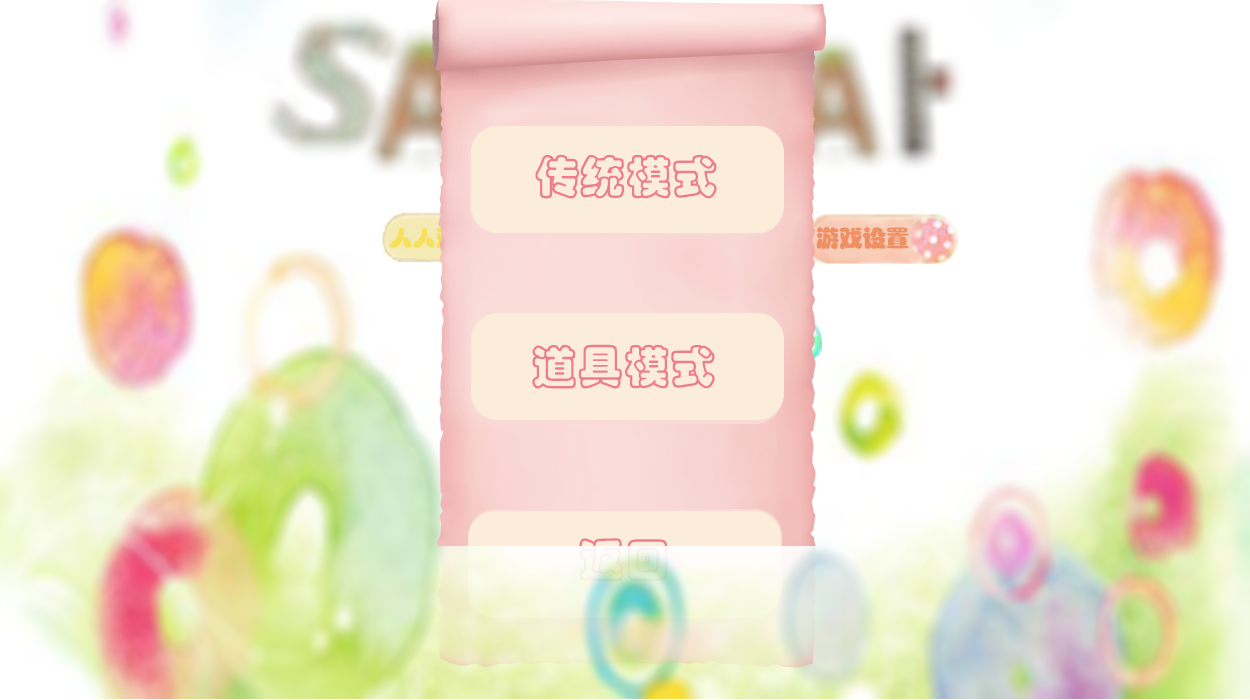
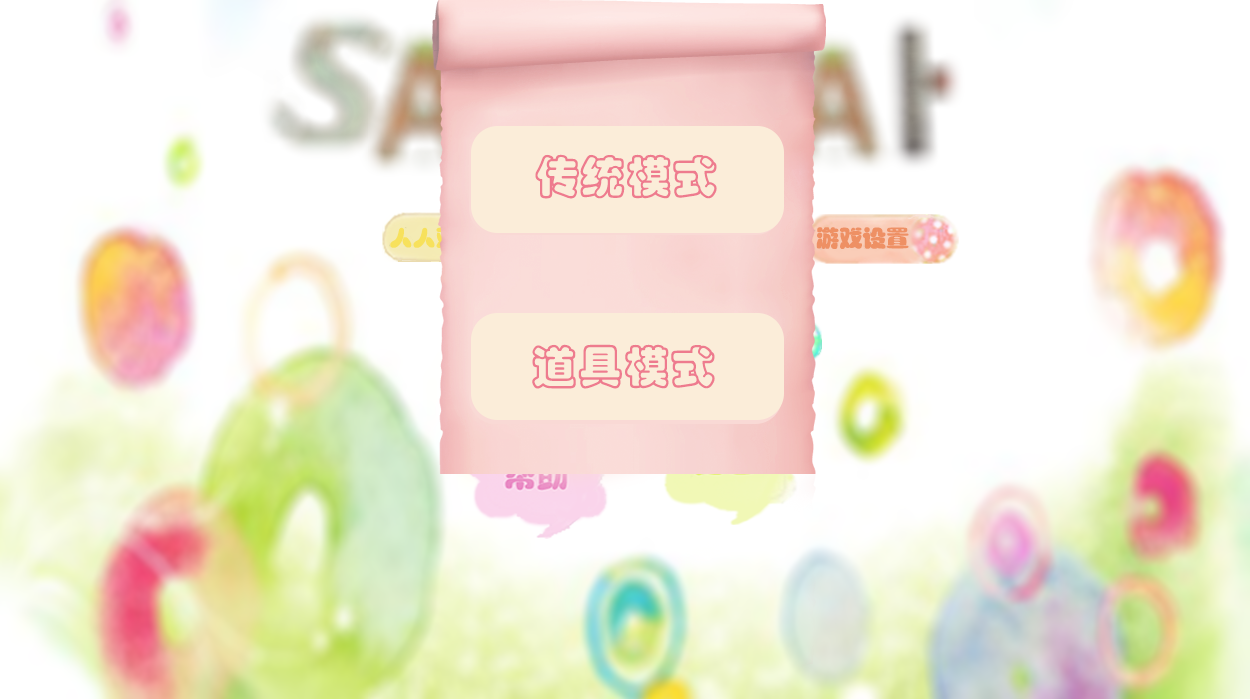
Link

Changed region(s): [[0.3432, 0.66, 0.6552, 0.78], [0.468, 0.87, 0.5616, 0.96], [0.624, 0.93, 0.6552, 0.96]]

diff --git a/Samurai/src/team/csca/link/modelChoose/JButtonPP.java b/Samurai/src/team/csca/link/modelChoose/JButtonPP.java
@@ -1,24 +1,39 @@
 package team.csca.link.modelChoose;
 
 import java.awt.event.MouseEvent;
+import java.rmi.RemoteException;
 
 import team.csca.client.RemoteHelper;
+import team.csca.control.netControl.NetGameControl;
+import team.csca.link.gameWaiting.JPanelGameLoading;
 import team.csca.server.User;
 import team.csca.view.extend.DynamicButton;
+import team.csca.view.image.ImgModel;
 
 public class JButtonPP extends DynamicButton{
 
-	private JPanelMoodelChoose fatherPanel ;
-	private User user = RemoteHelper.getInstance().getUser();
+	private JPanelModelChoose fatherPanel ;
+	private RemoteHelper helper = RemoteHelper.getInstance();
 	
-	public JButtonPP(JPanelMoodelChoose fatherPanel) {
-		super(0,0,0,0,null,null,null);
+	public JButtonPP(JPanelModelChoose fatherPanel) {
+		super(464,320,313,107,ImgModel.PROP_INIT,ImgModel.PROP_ENTER,ImgModel.PROP_CLICK);
 		this.fatherPanel = fatherPanel;
 	}
 	
 	public void mouseClicked(MouseEvent e){
 		super.mouseClicked(e);
-		
+		try {
+			NetGameControl control = NetGameControl.getInstance();
+			helper.getNotic().setControl(control);
+			
+			this.frame.setContentPane(new JPanelGameLoading());
+			this.frame.remove(this.fatherPanel);
+			frame.revalidate();
+			helper.setMoodle(2);
+			helper.getUser().chooseModle(2, helper.getNotic(), helper.getName());
+		} catch (RemoteException e1) {
+			e1.printStackTrace();
+		}
 	}
 	
 }

diff --git a/Samurai/src/team/csca/view/image/ImgModel.java b/Samurai/src/team/csca/view/image/ImgModel.java
@@ -1,0 +1,37 @@
+package team.csca.view.image;
+
+import java.awt.Image;
+
+import javax.swing.ImageIcon;
+
+public class ImgModel {
+	
+	public final static Image[] CHOOSE_MOVIE;
+	
+	static{
+		CHOOSE_MOVIE = new Image[16];
+		for(int i = 0 ; i < 16 ; i ++){
+			CHOOSE_MOVIE[i] = new ImageIcon("Image/ModelChoose/"+ (i+1) + ".png").getImage();
+		}
+		
+	}
+	
+	public final static Image PROP_INIT = new ImageIcon("Image/ModelChoose/prop1").getImage();
+	
+	public final static Image PROP_ENTER = new ImageIcon("Image/ModelChoose/prop2").getImage();
+	
+	public final static Image PROP_CLICK = new ImageIcon("Image/ModelChoose/prop3").getImage();
+	
+	public final static Image TRA_INIT = new ImageIcon("Image/ModelChoose/tra1").getImage();
+	
+	public final static Image TRA_ENTER = new ImageIcon("Image/ModelChoose/tra2").getImage();
+	
+	public final static Image TRA_CLICK = new ImageIcon("Image/ModelChoose/tra3").getImage();
+	
+	public final static Image RETURN_INIT = new ImageIcon("Image/ModelChoose/return1").getImage();
+	
+	public final static Image RETURN_ENTER = new ImageIcon("Image/ModelChoose/return2").getImage();
+	
+	public final static Image RETURN_CLICK = new ImageIcon("Image/ModelChoose/return3").getImage();
+	
+}

diff --git a/Samurai/src/team/csca/link/modelChoose/JPanelChooseList.java b/Samurai/src/team/csca/link/modelChoose/JPanelChooseList.java
@@ -1,5 +1,43 @@
 package team.csca.link.modelChoose;
 
-public class JPanelChooseList {
+import java.awt.Graphics;
 
+import javax.swing.JPanel;
+
+import team.csca.view.extend.LayerBackground;
+import team.csca.view.frame.JFrameMain;
+import team.csca.view.image.ImgModel;
+
+public class JPanelChooseList extends JPanel{
+	
+	LayerBackground background = new LayerBackground(0, 0, 1250, 700, ImgModel.CHOOSE_MOVIE[0]);
+	
+	public JPanelChooseList() {
+		setLayout(null);
+		playMovie();
+	}
+	
+	private void playMovie(){
+		for(int i = 0 ; i < 16 ; i ++){
+			try {
+				Thread.sleep(100);
+			} catch (InterruptedException e) {
+				// TODO Auto-generated catch block
+				e.printStackTrace();
+			}
+			background.setImg(ImgModel.CHOOSE_MOVIE[i]);
+		}
+		JFrameMain main = JFrameMain.J_FRAME_MAIN;
+		main.remove(this);
+		main.setContentPane(new JPanelModelChoose());
+		main.revalidate();
+	}
+	
+	@Override
+	protected void paintComponent(Graphics g) {
+		background.createWindow(g);
+		super.paintComponent(g);
+	}
+	
+	
 }

diff --git a/Samurai/src/team/csca/link/signIn/JButtonLogin.java b/Samurai/src/team/csca/link/signIn/JButtonLogin.java
@@ -5,7 +5,7 @@ import java.awt.event.ActionListener;
 import java.rmi.RemoteException;
 
 import team.csca.client.RemoteHelper;
-import team.csca.link.modelChoose.JPanelMoodelChoose;
+import team.csca.link.modelChoose.JPanelChooseList;
 import team.csca.view.extend.StaticButton;
 import team.csca.view.frame.JFrameMain;
 import team.csca.view.image.ImgLink;
@@ -44,8 +44,9 @@ public class JButtonLogin extends StaticButton implements ActionListener{
 			 //Login success
 			 System.out.println("Success");
 			 RemoteHelper.getInstance().setName(fatherPanel.getName());
-			 frame.setContentPane(new JPanelMoodelChoose());
+			 frame.setContentPane(new JPanelChooseList());
 			 frame.remove(this.fatherPanel);
+			 frame.revalidate();
 		 }else if(stateCode == 1){
 			 //No this user
 			 fatherPanel.cleanName();

diff --git a/Samurai/src/team/csca/link/modelChoose/JButtonPTra.java b/Samurai/src/team/csca/link/modelChoose/JButtonPTra.java
@@ -7,14 +7,15 @@ import team.csca.client.RemoteHelper;
 import team.csca.control.netControl.NetGameControl;
 import team.csca.link.gameWaiting.JPanelGameLoading;
 import team.csca.view.extend.DynamicButton;
+import team.csca.view.image.ImgModel;
 
 public class JButtonPTra extends DynamicButton{
 	
-	private JPanelMoodelChoose fatherPanel ;
+	private JPanelModelChoose fatherPanel ;
 	private RemoteHelper helper = RemoteHelper.getInstance();
 	
-	public JButtonPTra(JPanelMoodelChoose fatherPanel) {
-		super(0,0,0,0,null,null,null);
+	public JButtonPTra(JPanelModelChoose fatherPanel) {
+		super(464,129,313,107,ImgModel.TRA_INIT,ImgModel.TRA_ENTER,ImgModel.TRA_CLICK);
 		this.fatherPanel = fatherPanel;
 	}
 	

diff --git a/Samurai/src/team/csca/link/modelChoose/JButtonReturn.java b/Samurai/src/team/csca/link/modelChoose/JButtonReturn.java
@@ -6,14 +6,15 @@ import java.rmi.RemoteException;
 import team.csca.client.RemoteHelper;
 import team.csca.link.signIn.JPanelSignIn;
 import team.csca.view.extend.DynamicButton;
+import team.csca.view.image.ImgModel;
 
 public class JButtonReturn extends DynamicButton{
 	
-	private JPanelMoodelChoose fatherPanel ;
+	private JPanelModelChoose fatherPanel ;
 	
 	
-	public JButtonReturn(JPanelMoodelChoose fatherPanel) {
-		super(0,0,0,0,null,null,null);
+	public JButtonReturn(JPanelModelChoose fatherPanel) {
+		super(464,508,313,107,ImgModel.RETURN_INIT,ImgModel.RETURN_ENTER,ImgModel.RETURN_CLICK);
 		this.fatherPanel = fatherPanel;
 	}
 	

diff --git a/Samurai/src/team/csca/link/modelChoose/JPanelModelChoose.java b/Samurai/src/team/csca/link/modelChoose/JPanelModelChoose.java
@@ -5,12 +5,13 @@ import java.awt.Graphics;
 import javax.swing.JPanel;
 
 import team.csca.view.extend.LayerBackground;
+import team.csca.view.image.ImgModel;
 
-public class JPanelMoodelChoose extends JPanel{
+public class JPanelModelChoose extends JPanel{
 	
-	private LayerBackground background = new LayerBackground(0, 0, 1250, 700, );
+	private LayerBackground background = new LayerBackground(0, 0, 1250, 700, ImgModel.CHOOSE_MOVIE[15]);
 	
-	public JPanelMoodelChoose() {
+	public JPanelModelChoose() {
 		setLayout(null);
 		
 		this.add(new JButtonPP(this));

diff --git a/Samurai/src/team/csca/link/signIn/Dialog.java b/Samurai/src/team/csca/link/signIn/Dialog.java
@@ -13,15 +13,13 @@ import team.csca.view.extend.LayerBackground;
 import team.csca.view.frame.JFrameMain;
 import team.csca.view.image.ImgLink;
 
-public class Dialog extends JFrame{
+public class Dialog extends JPanel{
 
 	
 	public Dialog( Image back) {
 		super();
 		setLayout(null);
 		setBounds(595, 263, 170, 175);
-		this.setContentPane(new DiaPanel(back));
-		setUndecorated(true);
 		setVisible(true);
 		
 	}
